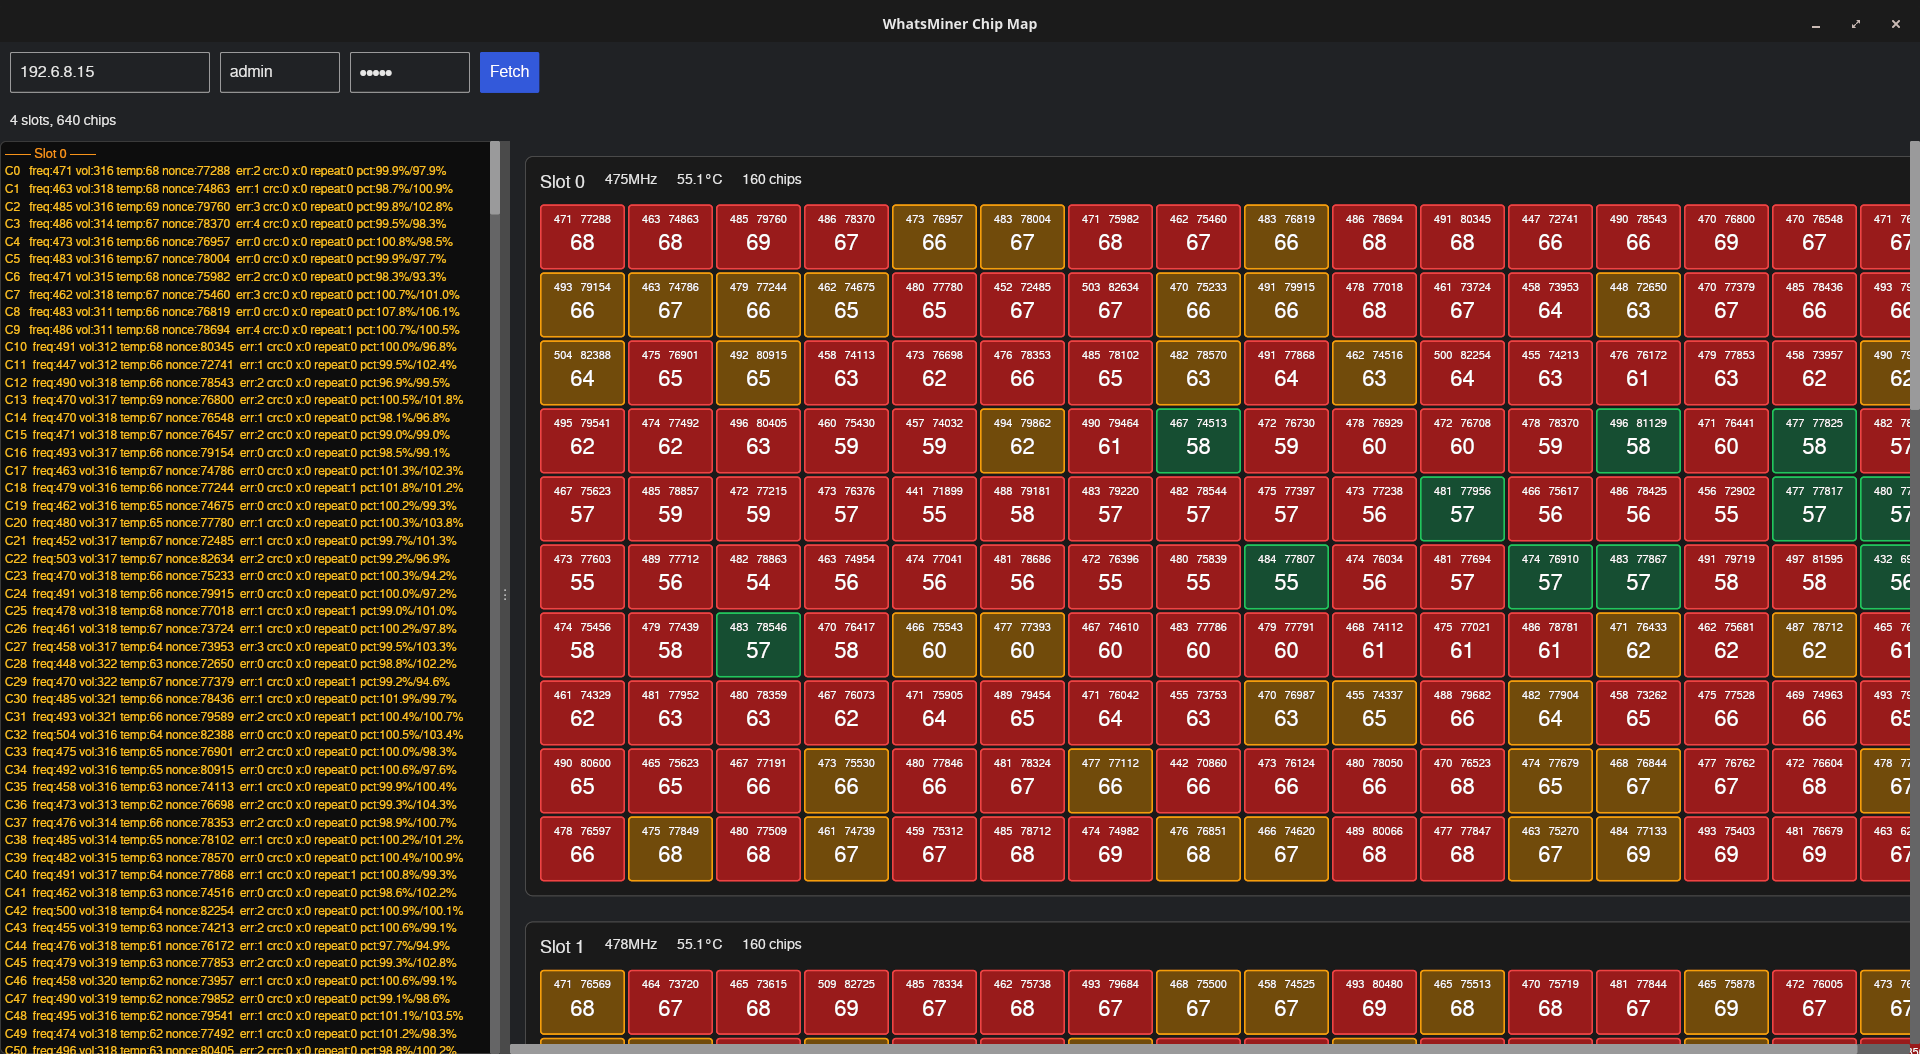
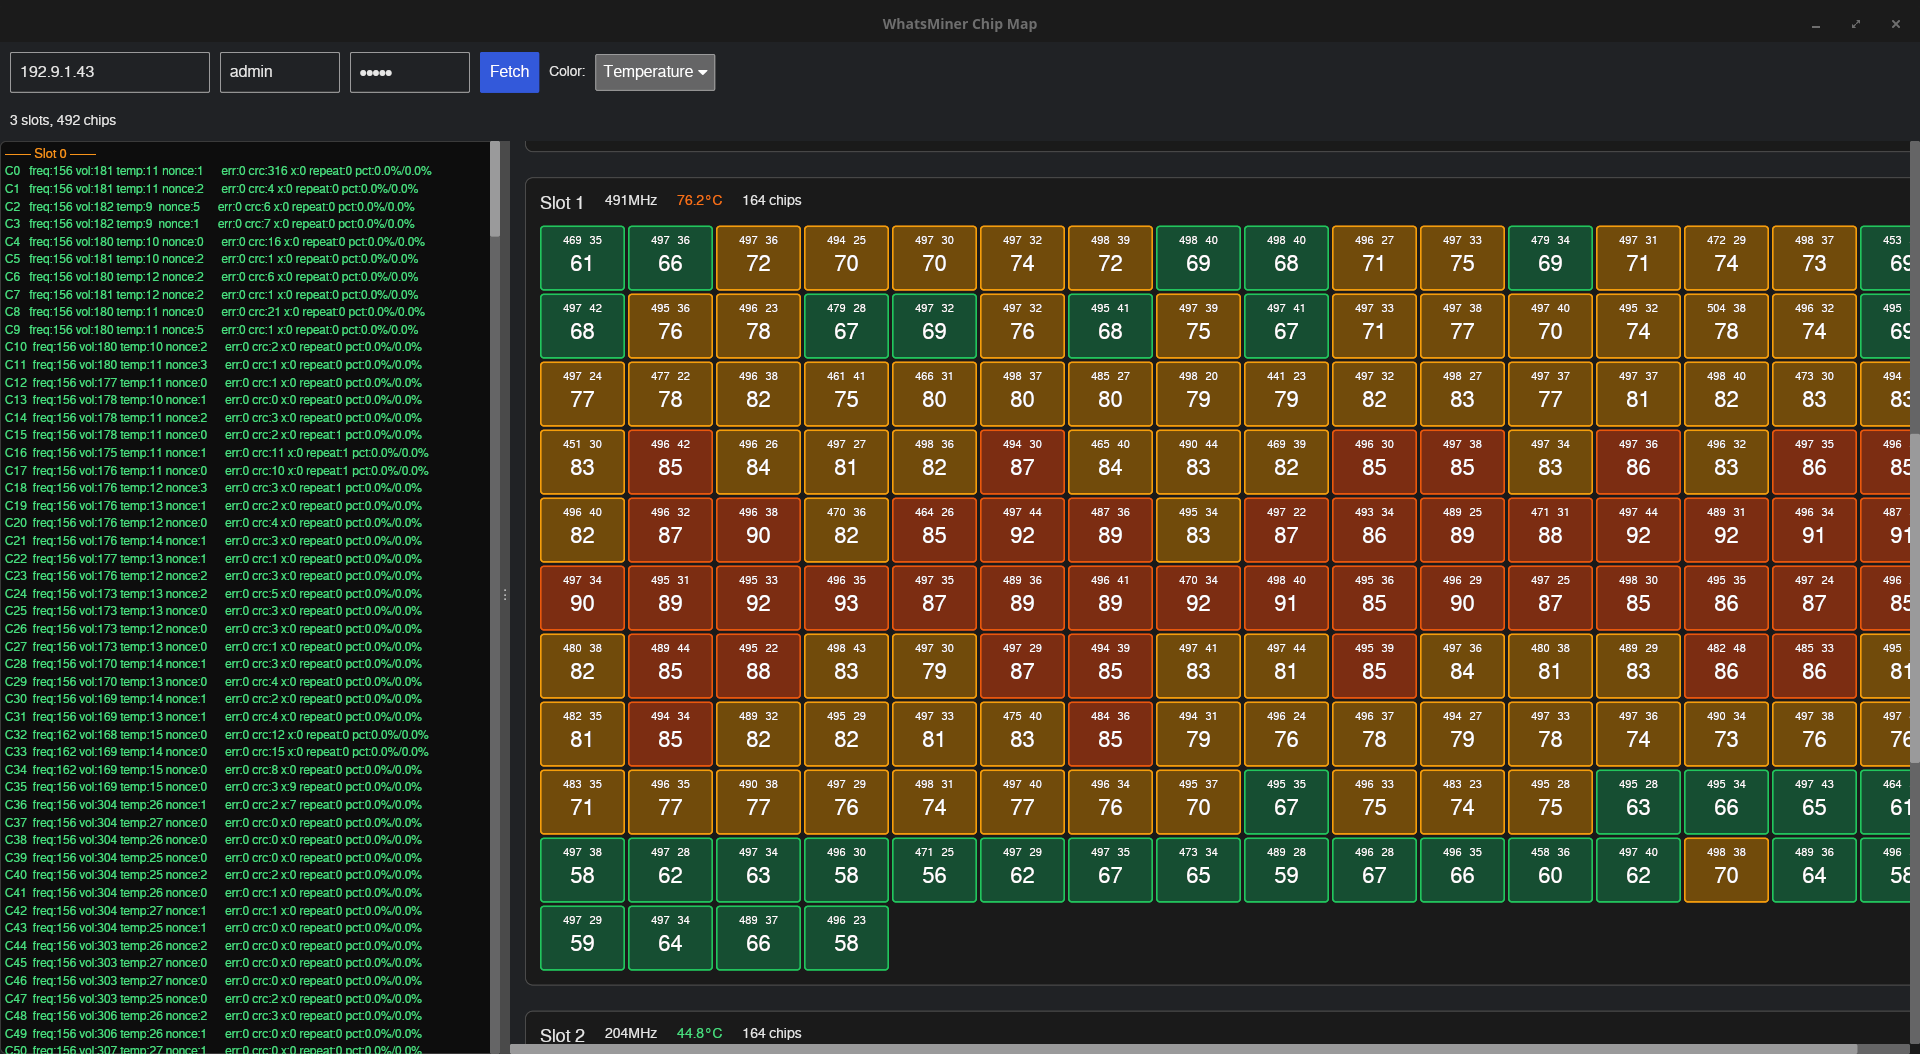
Color code ASIC cells using temp data from firmware

diff --git a/src/theme.rs b/src/theme.rs
@@ -1,5 +1,7 @@
 use iced::{Background, Border, Color, color, widget::container};
 
+use crate::models::ColorMode;
+
 // WhatsMiner brand colors
 pub const BRAND_ORANGE: Color = color!(0xF7, 0x93, 0x1A);
 
@@ -8,6 +10,34 @@ const BG_DARK: Color = color!(0x0D, 0x0D, 0x0D);
 const BG_PANEL: Color = color!(0x1A, 0x1A, 0x1A);
 const BORDER_SUBTLE: Color = color!(0x3A, 0x3A, 0x3A);
 const BORDER_ACCENT: Color = color!(0x4A, 0x4A, 0x4A);
+
+// =============================================================================
+// Temperature Thresholds (from WhatsMiner firmware analysis)
+// =============================================================================
+//
+// CHIP temperatures (individual ASIC chips):
+//   - ft_chip_temp_warn:    95-105°C  (warning threshold)
+//   - chip_temp_protect:    110-120°C (shutdown threshold)
+//   - Normal operating range is up to 95°C
+//
+// BOARD temperatures (hash board overall):
+//   - cool_temp:            30-38°C   (target operating temp)
+//   - board_temp_overheat:  80-90°C   (overheat warning)
+//   - board_temp_protect:   80-90°C   (shutdown threshold)
+//
+// =============================================================================
+
+// Chip temperature thresholds (°C) - from firmware chip_temp values
+const CHIP_TEMP_COOL: i32 = 70; // Below this = cool (ideal)
+const CHIP_TEMP_WARM: i32 = 85; // Below this = warm (normal operation)
+const CHIP_TEMP_HOT: i32 = 95; // Below this = hot (approaching ft_chip_temp_warn)
+// >= 95 = critical (at/above warning threshold)
+
+// Board temperature thresholds (°C) - from firmware board_temp values
+const BOARD_TEMP_COOL: i32 = 50; // Below this = cool (well under cool_temp target)
+const BOARD_TEMP_WARM: i32 = 65; // Below this = warm (normal operation)
+const BOARD_TEMP_HOT: i32 = 80; // Below this = hot (approaching board_temp_overheat)
+// >= 80 = critical (at overheat/protect threshold)
 
 // Temperature text colors (for sidebar)
 pub const TEMP_COOL: Color = color!(0x4A, 0xDE, 0x80); // Green
@@ -20,7 +50,6 @@ const CHIP_BG_COOL: Color = color!(0x16, 0x4E, 0x32); // Deep green
 const CHIP_BG_WARM: Color = color!(0x71, 0x4B, 0x0B); // Deep amber
 const CHIP_BG_HOT: Color = color!(0x7C, 0x2D, 0x12); // Deep orange
 const CHIP_BG_CRIT: Color = color!(0x7F, 0x1D, 0x1D); // Deep red
-const CHIP_BG_ERROR: Color = color!(0x99, 0x1B, 0x1B); // Error red
 
 // Chip border colors
 const CHIP_BORDER_COOL: Color = color!(0x22, 0xC5, 0x5E); // Bright green
@@ -28,20 +57,43 @@ const CHIP_BORDER_WARM: Color = color!(0xF5, 0x9E, 0x0B); // Bright amber
 const CHIP_BORDER_HOT: Color = color!(0xEA, 0x58, 0x0C); // Bright orange
 const CHIP_BORDER_CRIT: Color = color!(0xDC, 0x26, 0x26); // Bright red
 
-pub fn color_for_temp(temp: i32) -> Color {
+/// Returns a color for chip temperature (individual ASIC)
+/// Based on WhatsMiner firmware thresholds:
+/// - Cool:     < 70°C  (ideal operation)
+/// - Warm:     70-85°C (normal operation)
+/// - Hot:      85-95°C (approaching warning)
+/// - Critical: >= 95°C (at ft_chip_temp_warn threshold)
+pub fn color_for_chip_temp(temp: i32) -> Color {
     match temp {
-        t if t >= 80 => TEMP_CRIT,
-        t if t >= 70 => TEMP_HOT,
-        t if t >= 60 => TEMP_WARM,
+        t if t >= CHIP_TEMP_HOT => TEMP_CRIT,
+        t if t >= CHIP_TEMP_WARM => TEMP_HOT,
+        t if t >= CHIP_TEMP_COOL => TEMP_WARM,
         _ => TEMP_COOL,
     }
 }
 
+/// Returns a color for board temperature (hash board overall)
+/// Based on WhatsMiner firmware thresholds:
+/// - Cool:     < 50°C  (well under target)
+/// - Warm:     50-65°C (normal operation)
+/// - Hot:      65-80°C (approaching overheat)
+/// - Critical: >= 80°C (at board_temp_overheat threshold)
+pub fn color_for_board_temp(temp: f64) -> Color {
+    let t = temp as i32;
+    match t {
+        t if t >= BOARD_TEMP_HOT => TEMP_CRIT,
+        t if t >= BOARD_TEMP_WARM => TEMP_HOT,
+        t if t >= BOARD_TEMP_COOL => TEMP_WARM,
+        _ => TEMP_COOL,
+    }
+}
+
+/// Returns background and border colors for chip cell based on temperature
 fn chip_colors_for_temp(temp: i32) -> (Color, Color) {
     match temp {
-        t if t >= 80 => (CHIP_BG_CRIT, CHIP_BORDER_CRIT),
-        t if t >= 70 => (CHIP_BG_HOT, CHIP_BORDER_HOT),
-        t if t >= 60 => (CHIP_BG_WARM, CHIP_BORDER_WARM),
+        t if t >= CHIP_TEMP_HOT => (CHIP_BG_CRIT, CHIP_BORDER_CRIT),
+        t if t >= CHIP_TEMP_WARM => (CHIP_BG_HOT, CHIP_BORDER_HOT),
+        t if t >= CHIP_TEMP_COOL => (CHIP_BG_WARM, CHIP_BORDER_WARM),
         _ => (CHIP_BG_COOL, CHIP_BORDER_COOL),
     }
 }
@@ -58,11 +110,44 @@ pub fn slot_container() -> container::Style {
     }
 }
 
-pub fn chip_cell(temp: i32, errors: i32) -> container::Style {
-    let (bg, border_color) = if errors > 0 {
-        (CHIP_BG_ERROR, TEMP_CRIT)
-    } else {
-        chip_colors_for_temp(temp)
+// Error thresholds for color coding
+// Small error counts are normal in mining ASICs
+const ERROR_LOW: i32 = 20; // Below this = cool (few errors)
+const ERROR_MED: i32 = 50; // Below this = warm (moderate errors)
+const ERROR_HIGH: i32 = 100; // Below this = hot (elevated errors)
+// >= 100 = critical (high errors)
+
+// CRC error thresholds (CRC errors are more serious)
+const CRC_LOW: i32 = 1; // Any CRC = warm
+const CRC_MED: i32 = 5; // >= 5 = hot
+const CRC_HIGH: i32 = 10; // >= 10 = critical
+
+/// Returns background and border colors for chip cell based on error count
+fn chip_colors_for_errors(errors: i32) -> (Color, Color) {
+    match errors {
+        e if e >= ERROR_HIGH => (CHIP_BG_CRIT, CHIP_BORDER_CRIT),
+        e if e >= ERROR_MED => (CHIP_BG_HOT, CHIP_BORDER_HOT),
+        e if e >= ERROR_LOW => (CHIP_BG_WARM, CHIP_BORDER_WARM),
+        _ => (CHIP_BG_COOL, CHIP_BORDER_COOL),
+    }
+}
+
+/// Returns background and border colors for chip cell based on CRC errors
+fn chip_colors_for_crc(crc: i32) -> (Color, Color) {
+    match crc {
+        c if c >= CRC_HIGH => (CHIP_BG_CRIT, CHIP_BORDER_CRIT),
+        c if c >= CRC_MED => (CHIP_BG_HOT, CHIP_BORDER_HOT),
+        c if c >= CRC_LOW => (CHIP_BG_WARM, CHIP_BORDER_WARM),
+        _ => (CHIP_BG_COOL, CHIP_BORDER_COOL),
+    }
+}
+
+pub fn chip_cell(temp: i32, errors: i32, crc: i32, mode: ColorMode) -> container::Style {
+    // Choose colors based on selected mode
+    let (bg, border_color) = match mode {
+        ColorMode::Temperature => chip_colors_for_temp(temp),
+        ColorMode::Errors => chip_colors_for_errors(errors),
+        ColorMode::Crc => chip_colors_for_crc(crc),
     };
 
     container::Style {

diff --git a/src/ui.rs b/src/ui.rs
@@ -4,7 +4,7 @@ use iced::{
 };
 
 use crate::Message;
-use crate::models::{Chip, MinerData, Slot};
+use crate::models::{Chip, ColorMode, MinerData, Slot};
 use crate::theme;
 
 const CHIPS_PER_ROW: usize = 16;
@@ -16,12 +16,13 @@ pub fn render_miner_view(
     data: &MinerData,
     sidebar_width: f32,
     dragging: bool,
+    color_mode: ColorMode,
 ) -> Element<'_, Message> {
     let sidebar = render_sidebar(data);
 
     let grids = data.slots.iter().fold(
         Column::new().spacing(25).width(Length::Shrink),
-        |col, slot| col.push(render_slot_grid(slot)),
+        |col, slot| col.push(render_slot_grid(slot, color_mode)),
     );
 
     // Divider with drag handle
@@ -93,23 +94,29 @@ fn render_sidebar(data: &MinerData) -> Column<'_, Message> {
                 chip.pct1,
                 chip.pct2,
             );
-            sidebar = sidebar.push(text(line).size(12).color(theme::color_for_temp(chip.temp)));
+            sidebar = sidebar.push(
+                text(line)
+                    .size(12)
+                    .color(theme::color_for_chip_temp(chip.temp)),
+            );
         }
     }
 
     sidebar
 }
 
-fn render_slot_grid(slot: &Slot) -> Element<'_, Message> {
+fn render_slot_grid(slot: &Slot, color_mode: ColorMode) -> Element<'_, Message> {
     let header = row![
         text(format!("Slot {}", slot.id)).size(18),
         text(format!("{}MHz", slot.freq)).size(14),
-        text(format!("{:.1}°C", slot.temp)).size(14),
+        text(format!("{:.1}°C", slot.temp))
+            .size(14)
+            .color(theme::color_for_board_temp(slot.temp)),
         text(format!("{} chips", slot.chips.len())).size(14),
     ]
     .spacing(20);
 
-    let grid = render_chip_grid(&slot.chips);
+    let grid = render_chip_grid(&slot.chips, color_mode);
 
     container(col![header, grid].spacing(10).width(Length::Shrink))
         .padding(15)
@@ -118,13 +125,13 @@ fn render_slot_grid(slot: &Slot) -> Element<'_, Message> {
         .into()
 }
 
-fn render_chip_grid(chips: &[Chip]) -> Column<'_, Message> {
+fn render_chip_grid(chips: &[Chip], color_mode: ColorMode) -> Column<'_, Message> {
     chips.chunks(CHIPS_PER_ROW).fold(
         Column::new().spacing(CHIP_SPACING).width(Length::Shrink),
         |col, row_chips| {
             let mut r = Row::new().spacing(CHIP_SPACING).width(Length::Shrink);
             for chip in row_chips {
-                r = r.push(render_chip(chip));
+                r = r.push(render_chip(chip, color_mode));
             }
             // Pad incomplete rows with empty spacers
             for _ in row_chips.len()..CHIPS_PER_ROW {
@@ -138,8 +145,8 @@ fn render_chip_grid(chips: &[Chip]) -> Column<'_, Message> {
     )
 }
 
-fn render_chip(chip: &Chip) -> Element<'_, Message> {
-    let (temp, errors) = (chip.temp, chip.errors);
+fn render_chip(chip: &Chip, color_mode: ColorMode) -> Element<'_, Message> {
+    let (temp, errors, crc) = (chip.temp, chip.errors, chip.crc);
 
     let content = col![
         // Top row: freq (left) and nonce (right)
@@ -166,6 +173,6 @@ fn render_chip(chip: &Chip) -> Element<'_, Message> {
         .padding(4)
         .align_x(iced::alignment::Horizontal::Center)
         .align_y(iced::alignment::Vertical::Center)
-        .style(move |_| theme::chip_cell(temp, errors))
+        .style(move |_| theme::chip_cell(temp, errors, crc, color_mode))
         .into()
 }

diff --git a/src/main.rs b/src/main.rs
@@ -5,10 +5,10 @@ mod ui;
 
 use iced::{
     Element, Length, Task, Theme,
-    widget::{button, column, container, row, text, text_input},
+    widget::{button, column, container, pick_list, row, text, text_input},
 };
 
-use models::MinerData;
+use models::{ColorMode, MinerData};
 
 const DEFAULT_IP: &str = "192.6.8.15";
 const DEFAULT_USER: &str = "admin";
@@ -30,6 +30,7 @@ pub enum Message {
     DividerDragStart,
     DividerDragEnd,
     DividerDrag(f32),
+    ColorModeChanged(ColorMode),
 }
 
 struct App {
@@ -41,6 +42,7 @@ struct App {
     loading: bool,
     sidebar_width: f32,
     dragging_divider: bool,
+    color_mode: ColorMode,
 }
 
 impl Default for App {
@@ -54,6 +56,7 @@ impl Default for App {
             loading: false,
             sidebar_width: 500.0,
             dragging_divider: false,
+            color_mode: ColorMode::default(),
         }
     }
 }
@@ -109,6 +112,9 @@ impl App {
                     self.sidebar_width = x.clamp(150.0, 500.0);
                 }
             }
+            Message::ColorModeChanged(mode) => {
+                self.color_mode = mode;
+            }
         }
         Task::none()
     }
@@ -133,16 +139,30 @@ impl App {
             } else {
                 button(text("Fetch")).on_press(Message::Fetch).padding(10)
             },
+            text("Color:").size(14),
+            pick_list(
+                ColorMode::ALL,
+                Some(self.color_mode),
+                Message::ColorModeChanged,
+            )
+            .padding(8)
+            .width(120),
         ]
         .spacing(10)
-        .padding(10);
+        .padding(10)
+        .align_y(iced::Alignment::Center);
 
         let status = container(text(&self.status).size(14))
             .padding(10)
             .width(Length::Fill);
 
         let content: Element<'_, Message> = match &self.data {
-            Some(data) => ui::render_miner_view(data, self.sidebar_width, self.dragging_divider),
+            Some(data) => ui::render_miner_view(
+                data,
+                self.sidebar_width,
+                self.dragging_divider,
+                self.color_mode,
+            ),
             None => container(text("Click 'Fetch' to load miner data").size(16))
                 .padding(20)
                 .width(Length::Fill)

diff --git a/src/models.rs b/src/models.rs
@@ -1,3 +1,26 @@
+/// Color coding mode for chip visualization
+#[derive(Debug, Clone, Copy, Default, PartialEq, Eq)]
+pub enum ColorMode {
+    #[default]
+    Temperature,
+    Errors,
+    Crc,
+}
+
+impl ColorMode {
+    pub const ALL: [ColorMode; 3] = [ColorMode::Temperature, ColorMode::Errors, ColorMode::Crc];
+}
+
+impl std::fmt::Display for ColorMode {
+    fn fmt(&self, f: &mut std::fmt::Formatter<'_>) -> std::fmt::Result {
+        match self {
+            ColorMode::Temperature => write!(f, "Temperature"),
+            ColorMode::Errors => write!(f, "Errors"),
+            ColorMode::Crc => write!(f, "CRC"),
+        }
+    }
+}
+
 #[derive(Debug, Clone, Default)]
 pub struct MinerData {
     pub slots: Vec<Slot>,
